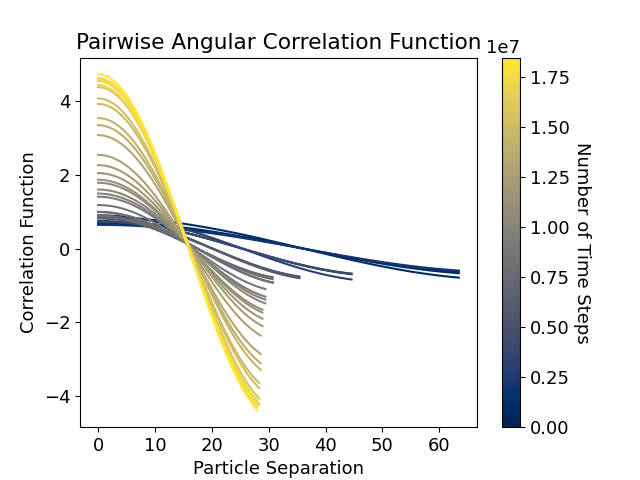
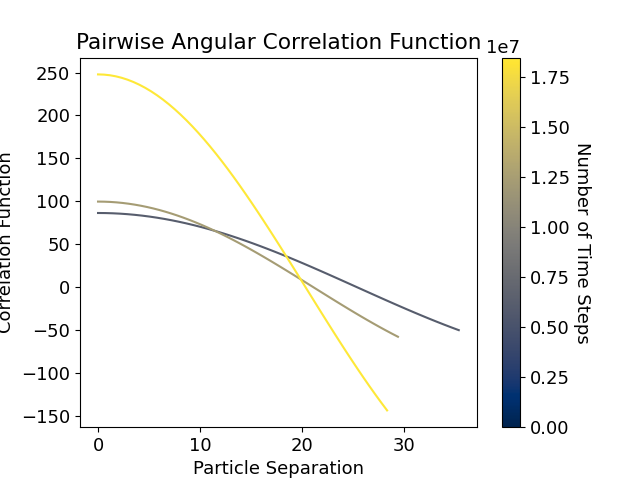
adapted discrete fourier transform

diff --git a/Phase_Structure/Nunchucks/Fixed_Rigidity/correlation_plot_FT.py b/Phase_Structure/Nunchucks/Fixed_Rigidity/correlation_plot_FT.py
@@ -1,11 +1,9 @@
-"""Optimised method to calculate the pair-wise orientational order correlation function.
-As detailed by Daan Frenkel, uses spherical harmonics so avoid costly angle calculations (which are O(N^2))
-as well as fourier transform methods. 
-Uses the end-to-end molecule vector as the director."""
-
-"""Fourier transform method to calculate the autocorrelation of number density over the particle separation (y component only here)
-Primarily used as a test case for the correlation plot fourier transform methods, but also relevant to smectic phase
+"""Fourier transformmethod to calculate the pair-wise orientational order correlation function over the 
+particle separation (y component only here). As detailed by Daan Frenkel, uses spherical harmonics so 
+avoid costly angle calculations (which are O(N^2)) as well as fourier transform methods. 
+    Uses the end-to-end molecule vector as the director.
 There may be normalisation issues with this, as p(m) is not normalised, but this is not relevant for our work"""
+
 
 import numpy as np
 import matplotlib.pyplot as plt
@@ -17,10 +15,8 @@ from phase_plot import vol_frac
 
 FILE_ROOT = "output_T_0.5_time_"  # two underscores to match typo in previous code
 SAMPLING_FREQ = 20  # only samples one in X files (must be integer)
-POSITION_BIN_NUM = 4  # number of bins for position dependance pair-wise correlation
-# For fourier transform, this is optimised if a power of 2
-
-MANUAL_FT = True
+POSITION_BIN_NUM = 16  # number of bins for position dependance pair-wise correlation
+# For fast fourier transform (not implemented here), this is optimised if a power of 2
 
 # mol_length = 10  #uncomment on older datasets
 
@@ -102,75 +98,75 @@ def find_angles(vec_array):
     return theta, phi
 
 
-def fourier_transform(data, k_vector, cell_num):
-    """Computes the FT of a 1D array
-    Manual implementation for testing - fft algorithm much faster with same ouput"""
-    ft_data = np.zeros_like(data, dtype=np.complex)
-    assert len(data) == cell_num, "Expected M points in data array"
+def fourier_transform(m_vector_array, sph_harm_array, k_vector, cell_num):
+    """Computes the discrete FT of angle density
 
-    for index, density in np.ndenumerate(data):
-        ft_data[index] += density * np.exp(
-            2j * np.pi * np.dot(k_vector, index) / cell_num
+    Input an Nx1 array of m_vectors, and an Nx1 array of spherical harmonics, for N molecules
+    Also input the wavevector to calculate the FT at."""
+
+    ft_result = 0  # Use for running total
+
+    for i in range(len(sph_harm_array)):  # sum over all molecules in sample
+        ft_result += sph_harm_array[i] * np.exp(
+            2j * np.pi * np.dot(k_vector, m_vector_array[i, :])
         )
-        # need to sum over all vectors m, not scalars (k_value should also be a vector - this is a 3D FT)
-    return ft_data
+    return ft_result
 
 
-def angle_density(data, box_dim, cell_num, order, sub_order, print_warning=False):
-    """Input data in array of size Molecule Number x 3 x 3
-
-    Input data will be rod_positions array which stores input data   
+def compute_spherical_harmonics(
+    data, box_dim, cell_num, order, sub_order, detect_errors=True, print_warning=False
+):
+    """Computes spherical harmonic of molecule orientation, and m vector, for each molecule
+    
+    Input data will be rod_positions array of size Molecule Number x 3 x 3
     First index gives molecule number (up to size N_molecules)
-    Second index gives particle number within molecule (first/last)
+    Second index gives particle number within molecule (first/centre/last)
     Third index gives the component of the position (x,y,z)
 
     Also input  'box_dim' - list of simulation box dimensions
                 'cell_num' - number of cells for discrete FT
                 'order' - order of correlation function to compute (l)
                 'suborder' - degree of harmonic (typically m, where m = -l, ..., l)
+                'detect_erros' - boolean whether to reflect spurious position data back into cell
                 'print_warning' - boolean whether to print warning about spurious positions
 
-    Returns array of angle density func for each value of vector m (each cell)"""
+    Returns two Nx1 arrays of m vectors and spherical harmonics respectively for each of N molecules"""
 
     directors = data[:, 2, :] - data[:, 0, :]
     theta_array, phi_array = find_angles(directors)
+    sph_harm_array = np.full_like(directors[:, 0], np.nan)  # Nx1 array
+    m_vector_array = np.full_like(directors, np.nan)  # Nx3 array
 
     position_values = data[:, 1, :] + box_dim / 2
     # change origin of cell to corner so no negative values
     cell_dim = box_dim / cell_num
 
-    density_data = np.zeros((cell_num, cell_num, cell_num), dtype=np.complex)
-
     # GENERATE NUMBER DENSITY ARRAY
-    for i, pos in enumerate(position_values):
-        m_vector = pos // cell_dim  # integer steps from corner (origin) of region
-        # This also acts as index for relevant cell in p(m)
-        harmonic_at_i = sph_harm(sub_order, order, theta_array[i], phi_array[i]).real
+    for n, pos in enumerate(position_values):
+        m_vector_array[n, :] = (
+            pos // cell_dim
+        )  # integer steps from corner (origin) of region
+        sph_harm_array[n] = sph_harm(
+            sub_order, order, theta_array[n], phi_array[n]
+        ).real
 
-        try:
-            density_data[tuple(m_vector.astype(int))] += harmonic_at_i
-        except IndexError:
-            problem_identified = False
-            for i in range(3):
-                if box_dim[i] < pos[i]:  # Particle outside box - floating point error?
-                    problem_identified = True
+        if detect_errors:
+            for j in range(3):
+                if box_dim[j] < pos[j]:  # Particle outside box - floating point error?
                     if print_warning:
                         print(
-                            f"  Warning: Particle detected {(pos[i] - box_dim[i]):.{4}}"
+                            f"  Warning: Particle detected {(pos[j] - box_dim[j]):.{4}}"
                             + " outside box (possible floating point error) - reflected in boundary"
                         )
 
-                    pos[i] = (2 * box_dim[i]) - pos[i]  # reflect inside box
-                    m_vector = pos // cell_dim  # redo previous calculations
-                    density_data[tuple(m_vector.astype(int))] += harmonic_at_i
-            if not problem_identified:
-                raise  # I.e. error was not due to this suspected floating point issue
-
-    return density_data
+                    pos[j] = (2 * box_dim[j]) - pos[j]  # reflect inside box
+                    m_vector_array[n, :] = pos // cell_dim  # redo previous calculations
+    # print(m_vector_array, sph_harm_array)
+    return m_vector_array, sph_harm_array
 
 
-def correlation_func(data, box_dim, cell_num, delta_m_list, order):
-    """Input data in array of size Molecule Number x 3 x 3
+def correlation_func(pos_data, box_dim, cell_num, delta_m_list, order):
+    """Input position data in array of size Molecule Number x 3 x 3
 
     Input data will be rod_positions array which stores input data   
     First index gives molecule number (up to size N_molecules)
@@ -182,7 +178,7 @@ def correlation_func(data, box_dim, cell_num, delta_m_list, order):
                 'cell_num' - number of cells for discrete FT
                 'delta_m_list' - list of delta_m values to evaluate function at
 
-    Returns value of angle correlation func at each delta_m"""
+    Returns list of angle correlation func values at each delta_m"""
 
     correlation_data = np.zeros_like(delta_m_list, dtype=np.complex)
 
@@ -192,35 +188,44 @@ def correlation_func(data, box_dim, cell_num, delta_m_list, order):
         outer_sum_tot = 0
         for sub_order in range(-order, order + 1):  # m = -l, -l+1, ..., l-1, l
             if i == 0 and sub_order == -order:  # Only prints warning on first occurance
-                print_warning = True
+                print_warning_bool = True
             else:
-                print_warning = False
+                print_warning_bool = False
 
-            density_data = angle_density(
-                data, box_dim, cell_num, order, sub_order, print_warning
+            m_vector_array, sph_harm_array = compute_spherical_harmonics(
+                pos_data,
+                box_dim,
+                cell_num,
+                order,
+                sub_order,
+                detect_errors=True,
+                print_warning=print_warning_bool,
             )
 
-            if not MANUAL_FT:  # use built in function
-                ft_density = np.fft.fft(density_data)  # Replaces sum method
-
-            for index, density in np.ndenumerate(density_data):  # sum over k
+            for delta_m_value in delta_m_list:
+                # sum over k wavevectors, given by inverse of delta_m values
                 inner_sum_tot = 0
-                centred_index = index + np.ones_like(index) / 2
+
+                centred_m_value = delta_m_value + 1 / 2
                 # this gives vector to centre of cell, not corner, and avoids /0 in next line
-                k_vector = (2 * np.pi / cell_num) * np.reciprocal(centred_index)
+                k_value = (2 * np.pi / cell_num) * np.reciprocal(centred_m_value)
+                k_vector = np.array([0, k_value, 0])  # again aligned along y axes
 
-                if MANUAL_FT:
-                    ft_density = fourier_transform(density_data, k_vector, cell_num)
+                ft_density = fourier_transform(
+                    m_vector_array, sph_harm_array, k_vector, cell_num
+                )
 
-                ave_density = np.mean(ft_density * np.conj(ft_density))
+                rms_density = ft_density * np.conj(ft_density)
+                # do I need to average here?
 
-                inner_sum_tot += ave_density * np.exp(
+                inner_sum_tot += rms_density * np.exp(
                     -2j * np.pi * np.dot(k_vector, delta_m_vector) / cell_num
                 )
+                # print(ft_density)
 
             outer_sum_tot += (inner_sum_tot) / (cell_num ** 3)
 
-        correlation_data[i] = ((4 * np.pi) / (2 * order - 1)) * outer_sum_tot
+        correlation_data[i] = ((4 * np.pi) / (2 * order + 1)) * outer_sum_tot
 
     return np.real(correlation_data)  # IS IT CORRECT/NECESSARY TO TAKE REAL PART HERE?
 
@@ -311,5 +316,5 @@ cbar.ax.set_ylabel("Number of Time Steps", rotation=270, labelpad=15)
 plt.title("Pairwise Angular Correlation Function")
 plt.xlabel("Particle Separation")
 plt.ylabel("Correlation Function")
-plt.savefig("correlation_func_FT3_man.png")
+plt.savefig("correlation_func_FT_new.png")
 plt.show()
